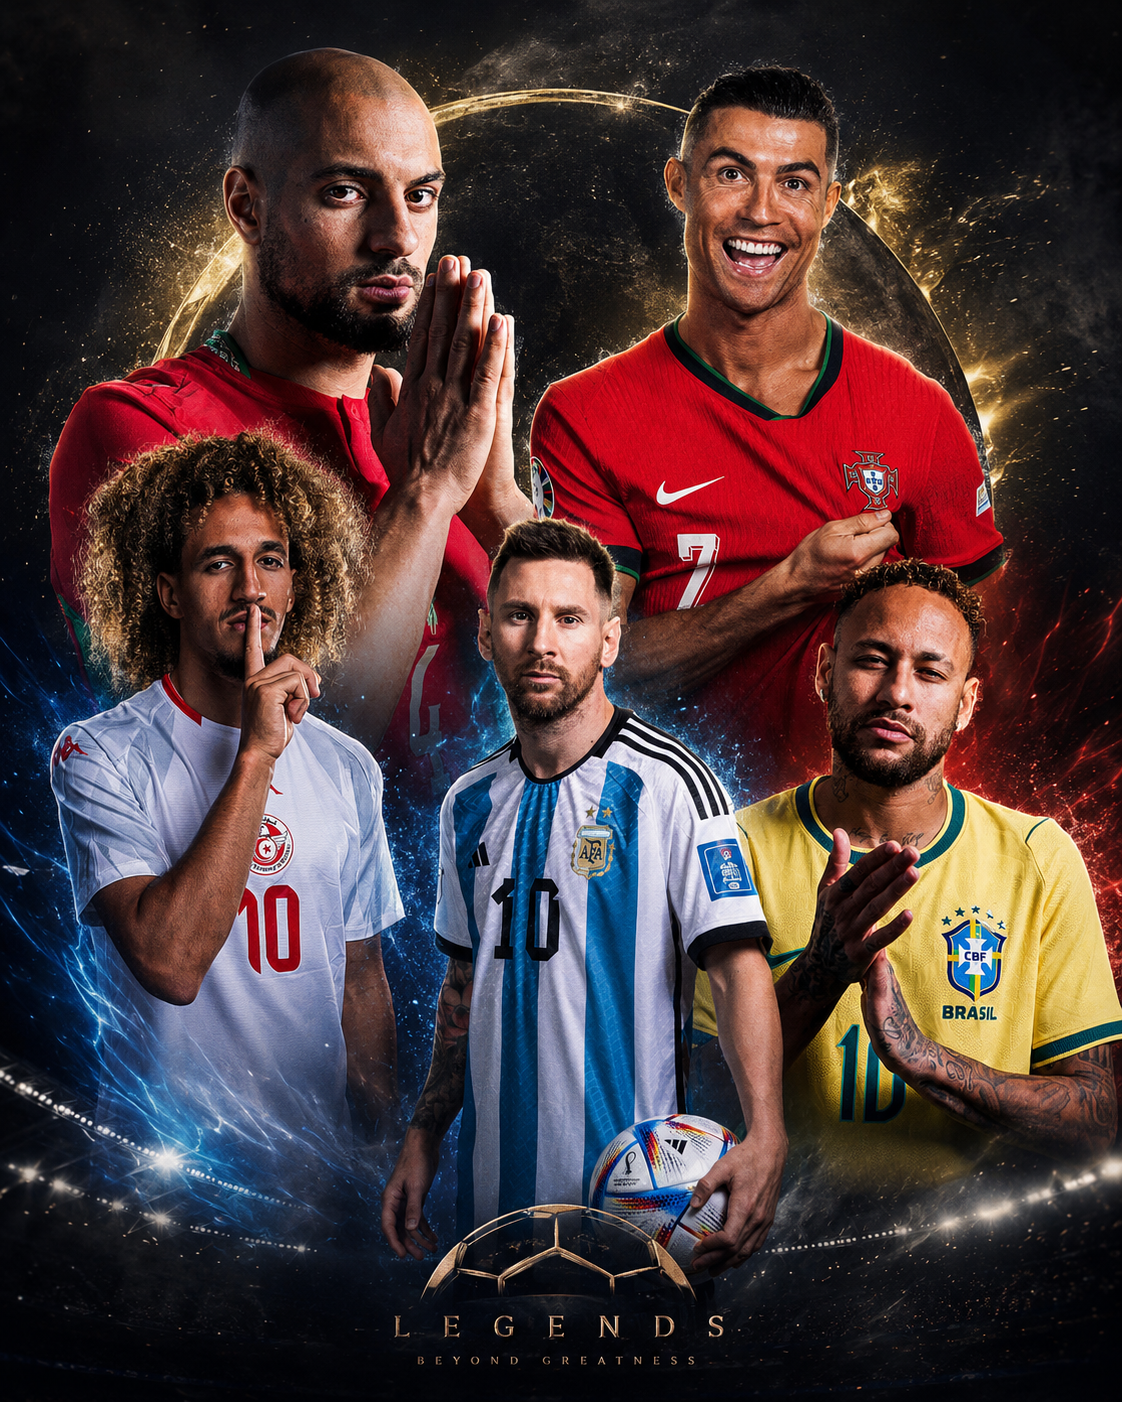
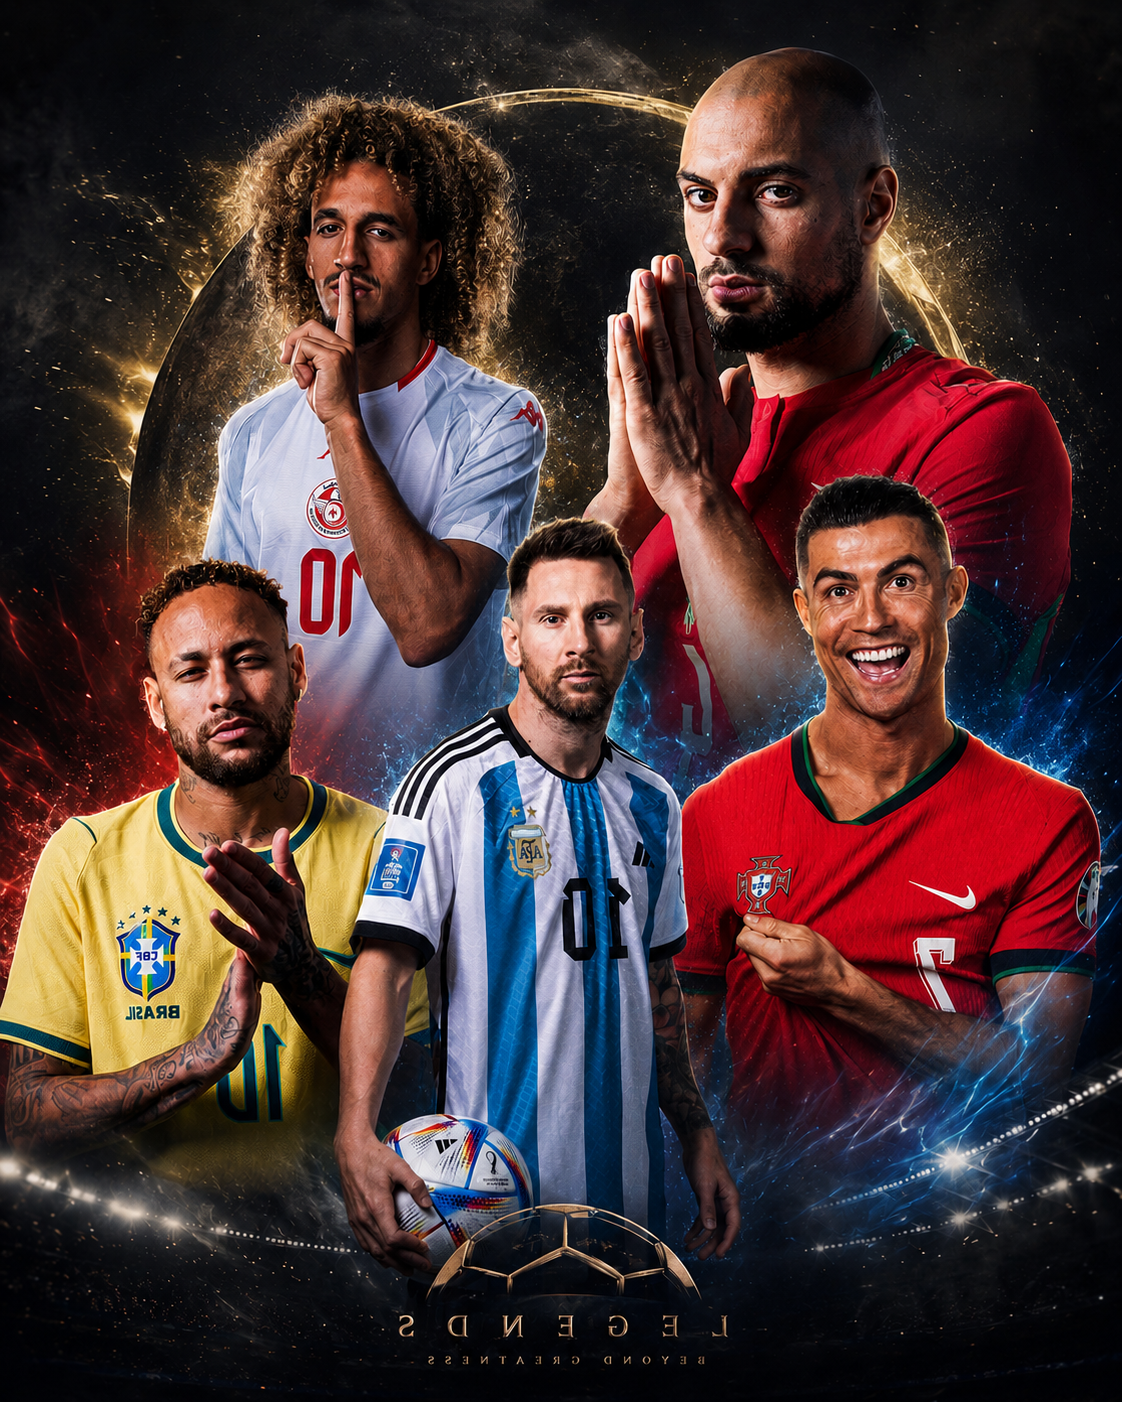
central card and tones modified, flipped image

diff --git a/style.css b/style.css
@@ -29,21 +29,21 @@ body {
   background:
     linear-gradient(
       90deg,
-      rgba(18, 5, 8, 0.98) 0%,
-      rgba(18, 5, 8, 0.94) 30%,
-      rgba(18, 5, 8, 0.62) 55%,
-      rgba(18, 5, 8, 0.40) 76%,
-      rgba(18, 5, 8, 0.80) 100%
+      rgba(18, 5, 8, 0.76) 0%,
+      rgba(18, 5, 8, 0.56) 24%,
+      rgba(18, 5, 8, 0.26) 45%,
+      rgba(18, 5, 8, 0.06) 68%,
+      rgba(18, 5, 8, 0.14) 100%
     ),
     linear-gradient(
       180deg,
-      rgba(18, 5, 8, 0.25) 0%,
-      rgba(18, 5, 8, 0.10) 55%,
-      rgba(18, 5, 8, 0.98) 100%
+      rgba(18, 5, 8, 0.04) 0%,
+      rgba(18, 5, 8, 0.06) 56%,
+      rgba(18, 5, 8, 0.72) 100%
     ),
     url("assets/legends.png");
   background-size: cover;
-  background-position: center right;
+  background-position: 68% center;
   background-repeat: no-repeat;
 }
 
@@ -52,8 +52,8 @@ body {
   position: absolute;
   inset: 0;
   background-image:
-    linear-gradient(rgba(255, 255, 255, 0.045) 1px, transparent 1px),
-    linear-gradient(90deg, rgba(255, 255, 255, 0.045) 1px, transparent 1px);
+    linear-gradient(rgba(255, 255, 255, 0.035) 1px, transparent 1px),
+    linear-gradient(90deg, rgba(255, 255, 255, 0.035) 1px, transparent 1px);
   background-size: 54px 54px;
   mask-image: linear-gradient(to bottom, black 8%, transparent 88%);
   pointer-events: none;
@@ -69,17 +69,17 @@ body {
   top: 14%;
   border-radius: 50%;
   background:
-    radial-gradient(circle, rgba(255, 255, 255, 0.08), transparent 58%),
+    radial-gradient(circle, rgba(250, 204, 21, 0.10), transparent 58%),
     conic-gradient(
       from 140deg,
       transparent,
-      rgba(239, 68, 68, 0.26),
-      rgba(250, 204, 21, 0.22),
-      rgba(34, 197, 94, 0.22),
+      rgba(239, 68, 68, 0.10),
+      rgba(250, 204, 21, 0.10),
+      rgba(34, 197, 94, 0.10),
       transparent
     );
   filter: blur(1px);
-  opacity: 0.45;
+  opacity: 0.20;
   animation: pulseGlow 5s infinite alternate;
   z-index: 1;
 }
@@ -87,12 +87,12 @@ body {
 @keyframes pulseGlow {
   from {
     transform: scale(0.96) rotate(0deg);
-    opacity: 0.35;
+    opacity: 0.14;
   }
 
   to {
     transform: scale(1.04) rotate(8deg);
-    opacity: 0.6;
+    opacity: 0.28;
   }
 }
 
@@ -106,7 +106,7 @@ body {
   align-items: center;
   padding: 18px 22px;
   border: 1px solid rgba(255, 255, 255, 0.18);
-  background: rgba(18, 5, 8, 0.72);
+  background: rgba(18, 5, 8, 0.66);
   backdrop-filter: blur(20px);
   border-radius: 20px;
   box-shadow:
@@ -160,7 +160,7 @@ body {
 }
 
 .hero-content {
-  max-width: 760px;
+  max-width: 700px;
 }
 
 .small-title {
@@ -181,18 +181,18 @@ body {
   margin-bottom: 30px;
   color: #ffffff;
   text-shadow:
-    0 0 18px rgba(239, 68, 68, 0.28),
-    0 0 38px rgba(250, 204, 21, 0.20),
-    0 2px 18px rgba(0, 0, 0, 0.65);
+    0 0 18px rgba(239, 68, 68, 0.22),
+    0 0 38px rgba(250, 204, 21, 0.16),
+    0 4px 22px rgba(0, 0, 0, 0.75);
 }
 
 .hero-description {
-  max-width: 690px;
+  max-width: 620px;
   color: #f8fafc;
   font-size: 1.13rem;
   line-height: 1.8;
   margin-bottom: 38px;
-  text-shadow: 0 2px 14px rgba(0, 0, 0, 0.75);
+  text-shadow: 0 2px 12px rgba(0, 0, 0, 0.65);
 }
 
 .hero-actions {
@@ -228,9 +228,9 @@ body {
 
 .secondary-button {
   color: #ffffff;
-  border: 1px solid rgba(255, 255, 255, 0.35);
-  background: rgba(18, 5, 8, 0.62);
-  backdrop-filter: blur(16px);
+  border: 1px solid rgba(255, 255, 255, 0.30);
+  background: rgba(18, 5, 8, 0.40);
+  backdrop-filter: blur(12px);
 }
 
 .hero-button:hover {
@@ -467,18 +467,23 @@ footer {
     background:
       linear-gradient(
         90deg,
-        rgba(18, 5, 8, 0.98) 0%,
-        rgba(18, 5, 8, 0.90) 45%,
-        rgba(18, 5, 8, 0.68) 100%
+        rgba(18, 5, 8, 0.70) 0%,
+        rgba(18, 5, 8, 0.44) 42%,
+        rgba(18, 5, 8, 0.20) 100%
       ),
       linear-gradient(
         180deg,
-        rgba(18, 5, 8, 0.25) 0%,
-        rgba(18, 5, 8, 0.98) 100%
+        rgba(18, 5, 8, 0.04) 0%,
+        rgba(18, 5, 8, 0.74) 100%
       ),
       url("assets/legends.png");
     background-size: cover;
     background-position: center;
+    background-repeat: no-repeat;
+  }
+
+  .hero-content {
+    max-width: 620px;
   }
 }
 